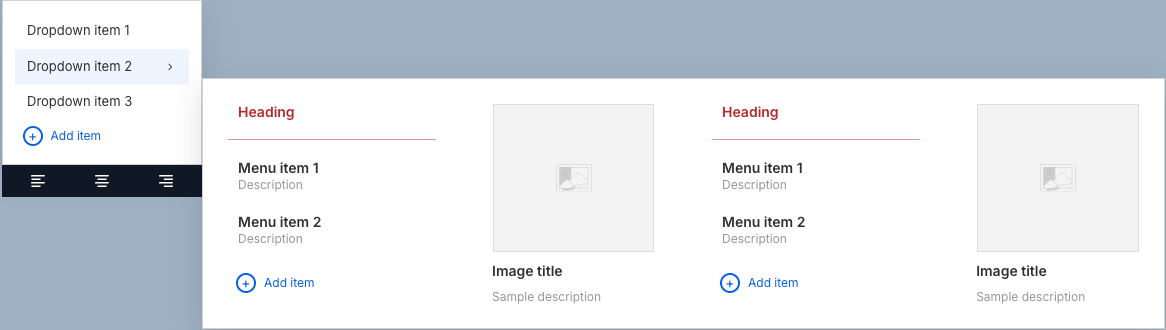
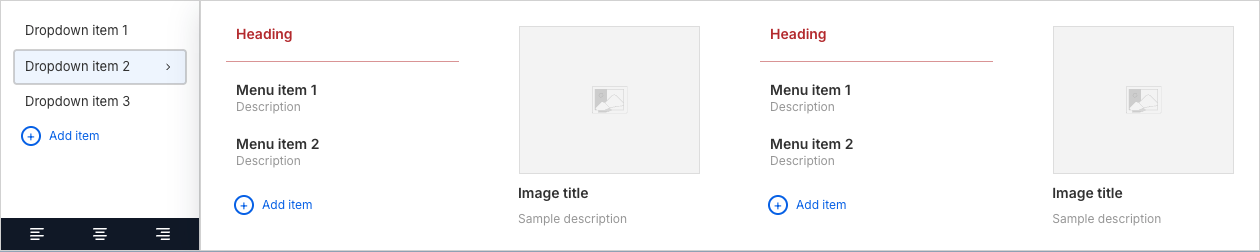
update tabs items

diff --git a/app/routes/app.menu-builder.tsx b/app/routes/app.menu-builder.tsx
@@ -683,7 +683,7 @@ export default function MenuBuilder() {
       const rect = node.getBoundingClientRect();
       setFloatingLinkListToolbarPosition({
         left: rect.left + rect.width / 2,
-        top: rect.bottom + 24,
+        top: rect.bottom + 32,
       });
     };
     updatePosition();
@@ -8878,6 +8878,7 @@ export default function MenuBuilder() {
 
   return (
     <div className="menucraft-builder h-screen flex flex-col bg-gray-100">
+      <style>{".menu-builder-hide-scrollbar::-webkit-scrollbar{display:none;}"}</style>
       {fullscreenPhase !== "ready" ? (
         <div className="fixed inset-0 z-50 bg-gray-100" />
       ) : null}
@@ -9965,7 +9966,15 @@ export default function MenuBuilder() {
                                         }}
                                       >
                                         <div style={{ display: "flex", flexDirection: "column", gap: 12, padding: 12 }}>
-                                          <div style={{ overflowX: "auto", overflowY: "visible" }}>
+                                          <div
+                                            className="menu-builder-hide-scrollbar"
+                                            style={{
+                                              overflowX: "auto",
+                                              overflowY: "hidden",
+                                              scrollbarWidth: "none",
+                                              msOverflowStyle: "none",
+                                            }}
+                                          >
                                             <div
                                               style={{
                                                 display: "flex",
@@ -10053,7 +10062,15 @@ export default function MenuBuilder() {
                                   </>
                                 ) : activeDropdownHasBlocks ? (
                                   <div style={{ display: "flex", flexDirection: "column", gap: 12, padding: 12 }}>
-                                    <div style={{ overflowX: "auto", overflowY: "visible" }}>
+                                    <div
+                                      className="menu-builder-hide-scrollbar"
+                                      style={{
+                                        overflowX: "auto",
+                                        overflowY: "hidden",
+                                        scrollbarWidth: "none",
+                                        msOverflowStyle: "none",
+                                      }}
+                                    >
                                       <div
                                         style={{
                                           display: "flex",
@@ -10073,13 +10090,12 @@ export default function MenuBuilder() {
                                             return renderLinkListBlock(child, {
                                               flex: `0 0 ${linkFlexBasis}`,
                                               wrapperStyle: { minWidth: 0 },
+                                              toolbarPlacement: "floating",
                                             });
                                           }
                                           if (child.blockTemplate === "image" || child.blockTemplate === "image2") {
-                                            const imageWidth = Math.max(1, Math.min(12, child.imageWidth ?? 3));
-                                            const imageFlexBasis = `${Math.round((imageWidth / 12) * 100)}%`;
                                             return renderImageBlock(child, {
-                                              flex: `0 0 ${imageFlexBasis}`,
+                                              flex: "0 0 20%",
                                               wrapperStyle: { minWidth: 0 },
                                             });
                                           }
